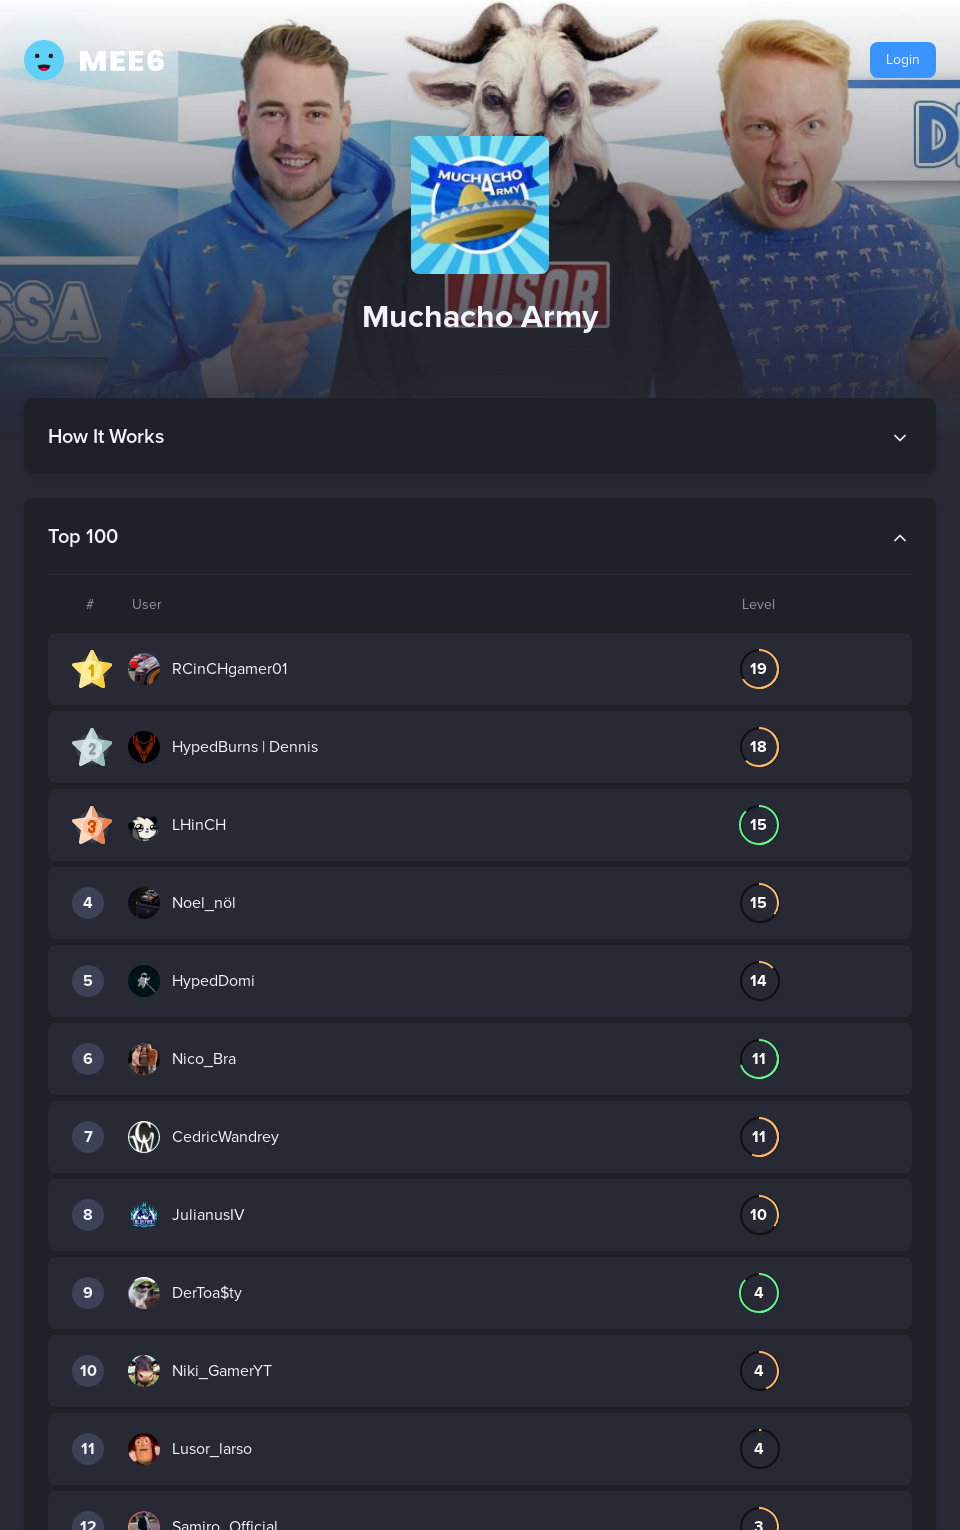
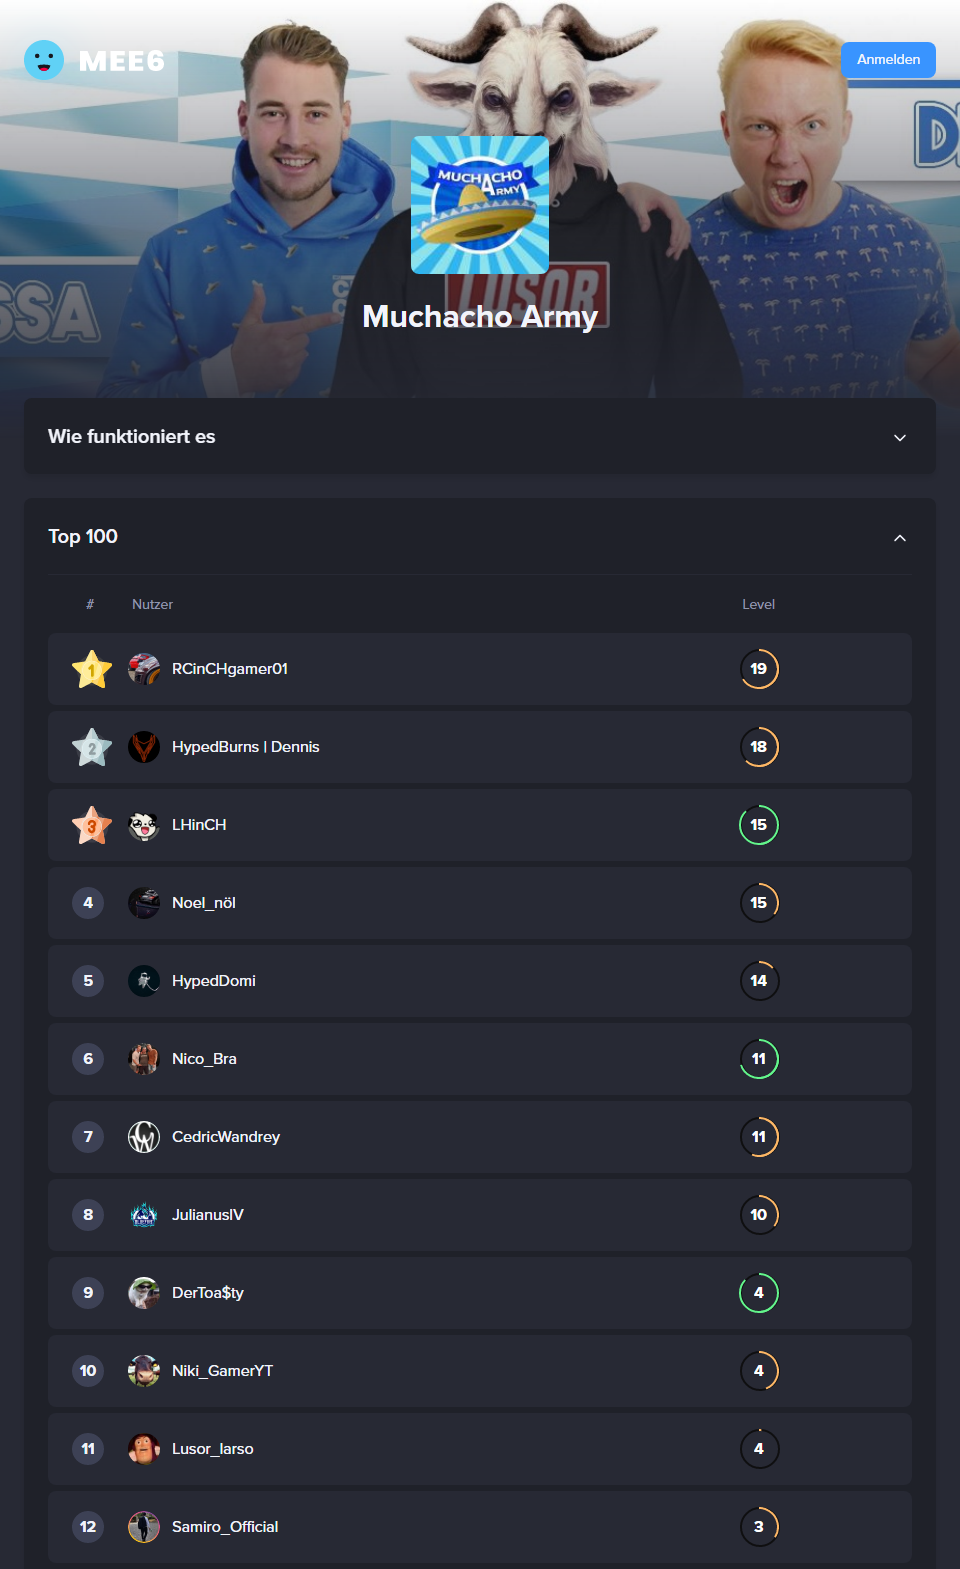
Adjusted image size

diff --git a/index.js b/index.js
@@ -35,7 +35,7 @@ const yearMonth = () => {
 puppeteer.launch({
     defaultViewport: {
         width: 960,
-        height: 1530
+        height: 1569
     }
 }).then(async (browser) => {
     const page = await browser.newPage();
